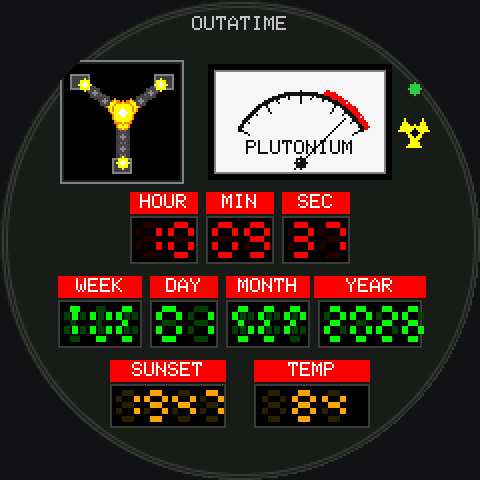
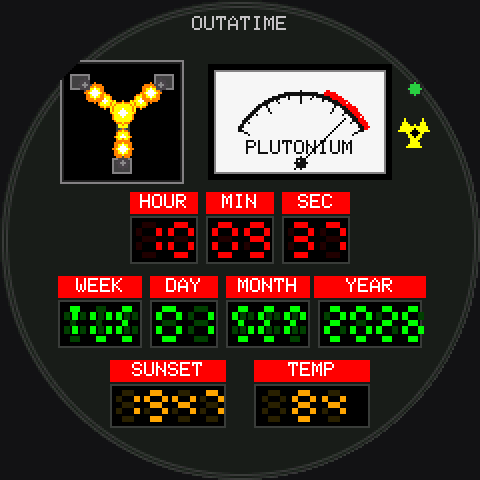
delorean: slow the flux pulse and add a beat between pulses
The pulse filled the whole cycle, so the arms never went fully dark and
it read as a continuous ripple. The sweep now occupies the first 72% of
the cycle and the rest is a dark beat before the next pulse leaves. The
cycle also slows from 0.7 s to 1 s, so the travel itself is gentler.

The head starts at the innermost bulb rather than at zero, so a bulb
lights the instant the pulse leaves the junction; otherwise the first
tenth of every cycle was dark too and the pause felt twice as long as
intended. Checked by tracing the brightness levels across a cycle and by
rendering the capacitor at five phases.

Built for all three boards; the C3 has the pinned preview flashed and
verified.

Changed region(s): [[0.1562, 0.1562, 0.2812, 0.375], [0.2812, 0.1562, 0.3438, 0.25]]

diff --git a/src/faces/face_delorean.cpp b/src/faces/face_delorean.cpp
@@ -231,22 +231,32 @@ static void fluxCapacitor(GFX &g, int x, int y, int w, int h, float phase)
     // brightens as the pulse reaches it and fades behind it. That is the
     // charging flow, rather than one arm at a time.
     //
-    // `phase` runs 0..1 over one pulse. A bulb at position p along its arm
-    // is brightest when the pulse is at p, and its brightness falls off with
-    // the distance between them - so the light appears to move outward.
+    // `phase` runs 0..1 over one cycle, but the pulse only travels during
+    // the first TRAVEL of it; the remainder is a dark beat before the next
+    // one leaves. Without that gap the arms never fully go out and the
+    // effect reads as a continuous ripple rather than discrete pulses.
+    const float TRAVEL = 0.72f;
+    // How far along the arms the pulse has reached, or -1 during the pause.
+    // It starts at the innermost bulb rather than at zero, so the first
+    // bulb lights the instant the pulse leaves the junction.
+    const float FIRST = 0.22f;
+    float head = (phase < TRAVEL)
+               ? FIRST + (1.0f - FIRST) * (phase / TRAVEL)
+               : -1.0f;
+
     for (int a = 0; a < 3; a++) {
         for (int i = 0; i < 4; i++) {
             float p  = 0.22f + i * 0.24f;         // where this bulb sits, 0..1
             int   bx = cx + (int)((ax[a] - cx) * p);
             int   by = jy + (int)((ay[a] - jy) * p);
 
-            float d = phase - p;                   // how far the pulse is past it
-            if (d < 0) d += 1.0f;                  // the pulse wraps around
-            // a short bright head with a tail behind it
+            // distance behind the head; negative means it has not arrived
+            float d = (head < 0) ? 9.0f : (head - p);
             int level;
-            if      (d < 0.18f) level = 3;         // the pulse is on this bulb
-            else if (d < 0.36f) level = 2;         // just behind it
-            else if (d < 0.58f) level = 1;         // fading
+            if      (d < 0)     level = 0;         // the pulse is not here yet
+            else if (d < 0.16f) level = 3;         // the head is on this bulb
+            else if (d < 0.32f) level = 2;         // just behind it
+            else if (d < 0.50f) level = 1;         // fading
             else                level = 0;         // idle
 
             switch (level) {
@@ -272,8 +282,9 @@ static void fluxCapacitor(GFX &g, int x, int y, int w, int h, float phase)
         }
     }
 
-    // The junction, where every pulse is born: brightest as one leaves.
-    int jr = (phase < 0.18f) ? 6 : 5;
+    // The junction, where every pulse is born: it flares as one leaves and
+    // settles back during the pause.
+    int jr = (phase < 0.12f) ? 6 : 5;
     g.fillCircle(cx, jy, jr + 1, C_FLUX_HALO);
     g.fillCircle(cx, jy, jr, C_FLUX);
     g.fillCircle(cx, jy, jr - 3, C_FLUX_HOT);
@@ -380,7 +391,9 @@ static void render(GFX &g, const struct tm &t, float subSec)
     g.drawSmoothCircle(120, 120, 117, C_FRAME, C_CASE);
 
     // ---- flux capacitor and gauge across the top --------------------------
-    float ticks = (t.tm_sec + subSec) / 0.7f;      // one pulse every 0.7 s
+    // One pulse a second: the sweep itself takes about 0.7 s and the rest
+    // is the beat between them.
+    float ticks = (t.tm_sec + subSec) / 1.0f;
     fluxCapacitor(g, 30, 30, 62, 62, ticks - (int)ticks);
 
     int rssi = WiFi.RSSI();

diff --git a/tools/render/faces_delorean.py b/tools/render/faces_delorean.py
@@ -104,30 +104,34 @@ def face_delorean(c, hh, mm, ss, mday, mon, year, wday, temp_f, sunrise, sunset)
         for a in range(3):
             c.fillRect(ax[a] - 5, ay[a] - 4, 10, 8, K["C_TERMINAL"])
             c.drawRect(ax[a] - 5, ay[a] - 4, 10, 8, K["C_FLUX_BEZEL"])
-        # all three arms live; a pulse runs from the junction outward
+        # all three arms live; a pulse runs from the junction outward, then
+        # a dark beat before the next one leaves
+        TRAVEL, FIRST = 0.72, 0.22
+        head = FIRST + (1.0 - FIRST) * (phase / TRAVEL) if phase < TRAVEL else -1.0
         for a in range(3):
             for i in range(4):
                 pos = 0.22 + i * 0.24
                 bx = cx + int((ax[a] - cx) * pos)
                 by = jy + int((ay[a] - jy) * pos)
-                d = phase - pos
+                d = 9.0 if head < 0 else head - pos
                 if d < 0:
-                    d += 1.0
-                if d < 0.18:
+                    c.fillCircle(bx, by, 3, K["C_FLUX_OFF"])
+                    c.fillCircle(bx, by, 1, K["C_FLUX_DIM"])
+                elif d < 0.16:
                     c.fillCircle(bx, by, 5, K["C_FLUX_HALO"])
                     c.fillCircle(bx, by, 3, K["C_FLUX"])
                     c.fillCircle(bx, by, 2, K["C_FLUX_HOT"])
-                elif d < 0.36:
+                elif d < 0.32:
                     c.fillCircle(bx, by, 4, K["C_FLUX_HALO"])
                     c.fillCircle(bx, by, 3, K["C_FLUX"])
                     c.fillCircle(bx, by, 1, K["C_FLUX_HOT"])
-                elif d < 0.58:
+                elif d < 0.50:
                     c.fillCircle(bx, by, 3, K["C_FLUX"])
                     c.fillCircle(bx, by, 1, K["C_FLUX_HOT"])
                 else:
                     c.fillCircle(bx, by, 3, K["C_FLUX_OFF"])
                     c.fillCircle(bx, by, 1, K["C_FLUX_DIM"])
-        jr = 6 if phase < 0.18 else 5
+        jr = 6 if phase < 0.12 else 5
         c.fillCircle(cx, jy, jr + 1, K["C_FLUX_HALO"])
         c.fillCircle(cx, jy, jr, K["C_FLUX"])
         c.fillCircle(cx, jy, jr - 3, K["C_FLUX_HOT"])
